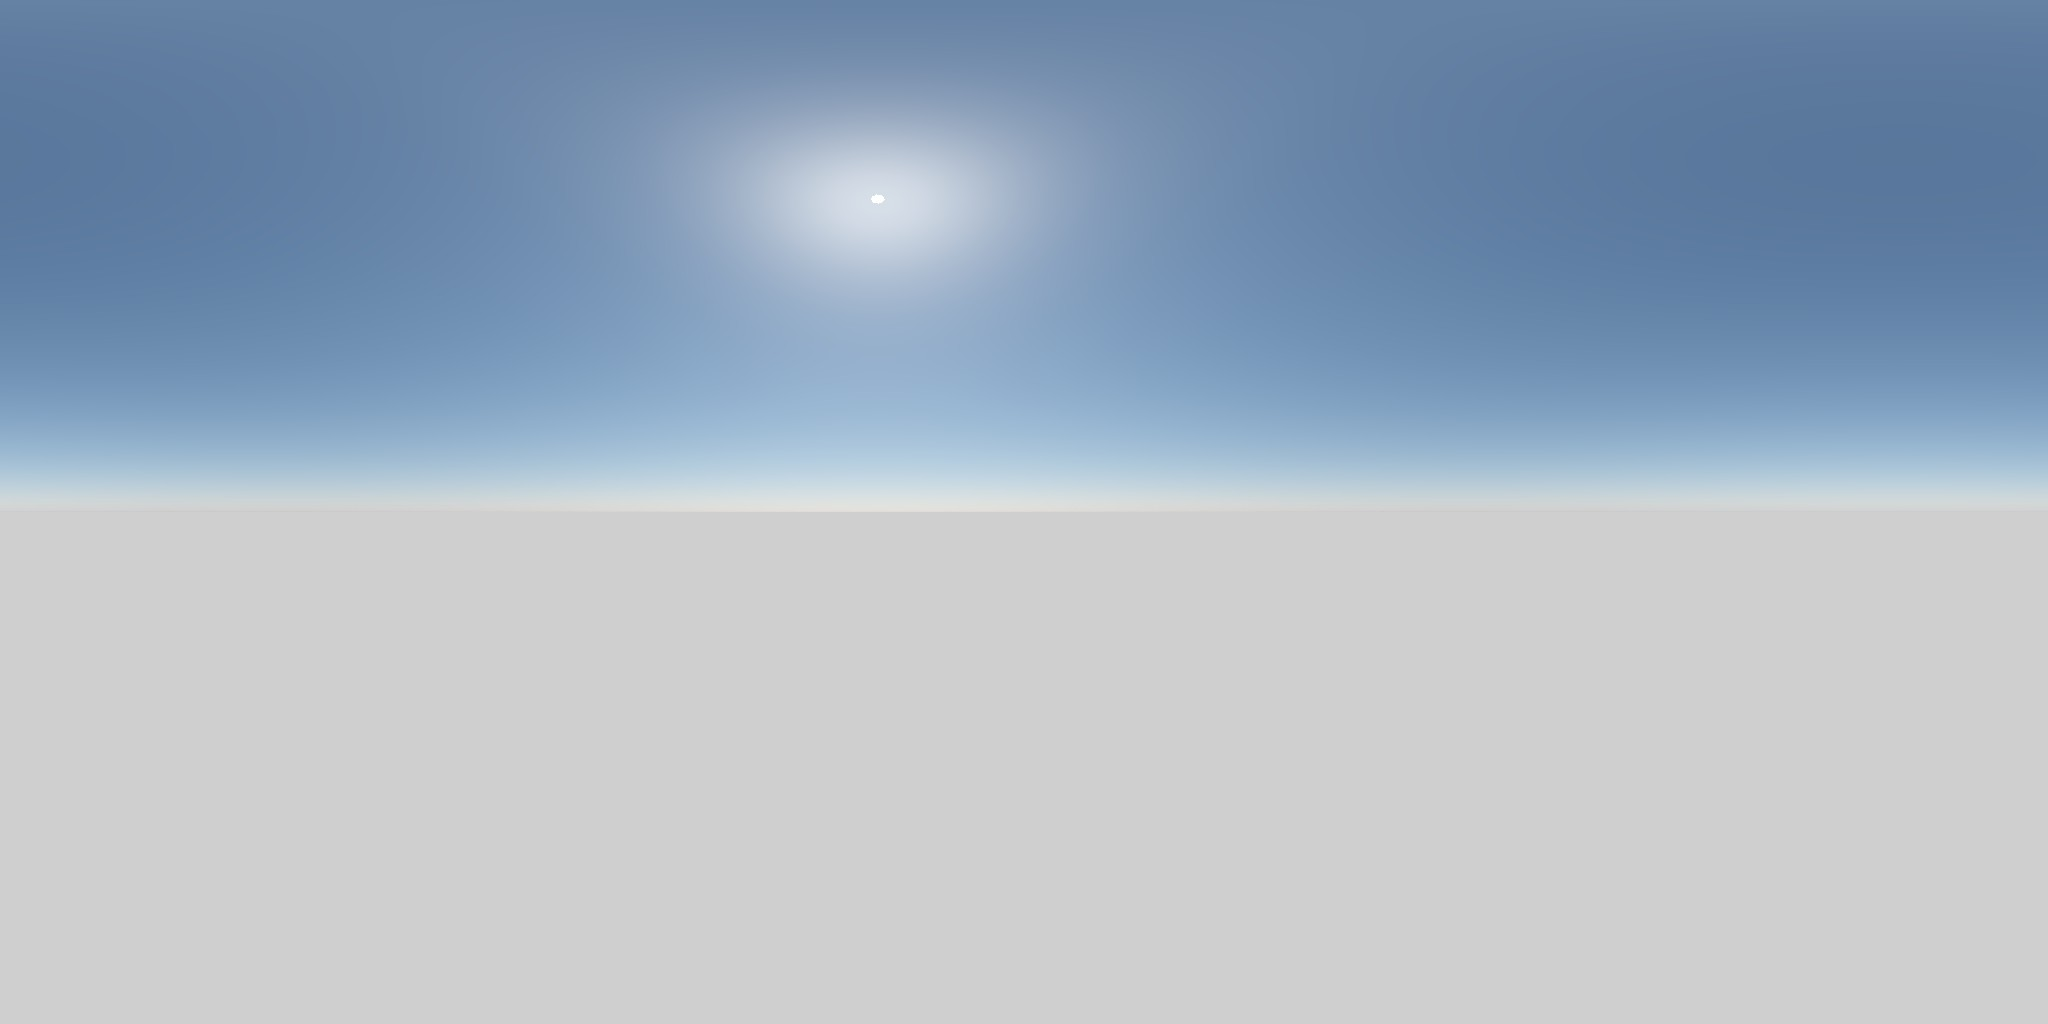
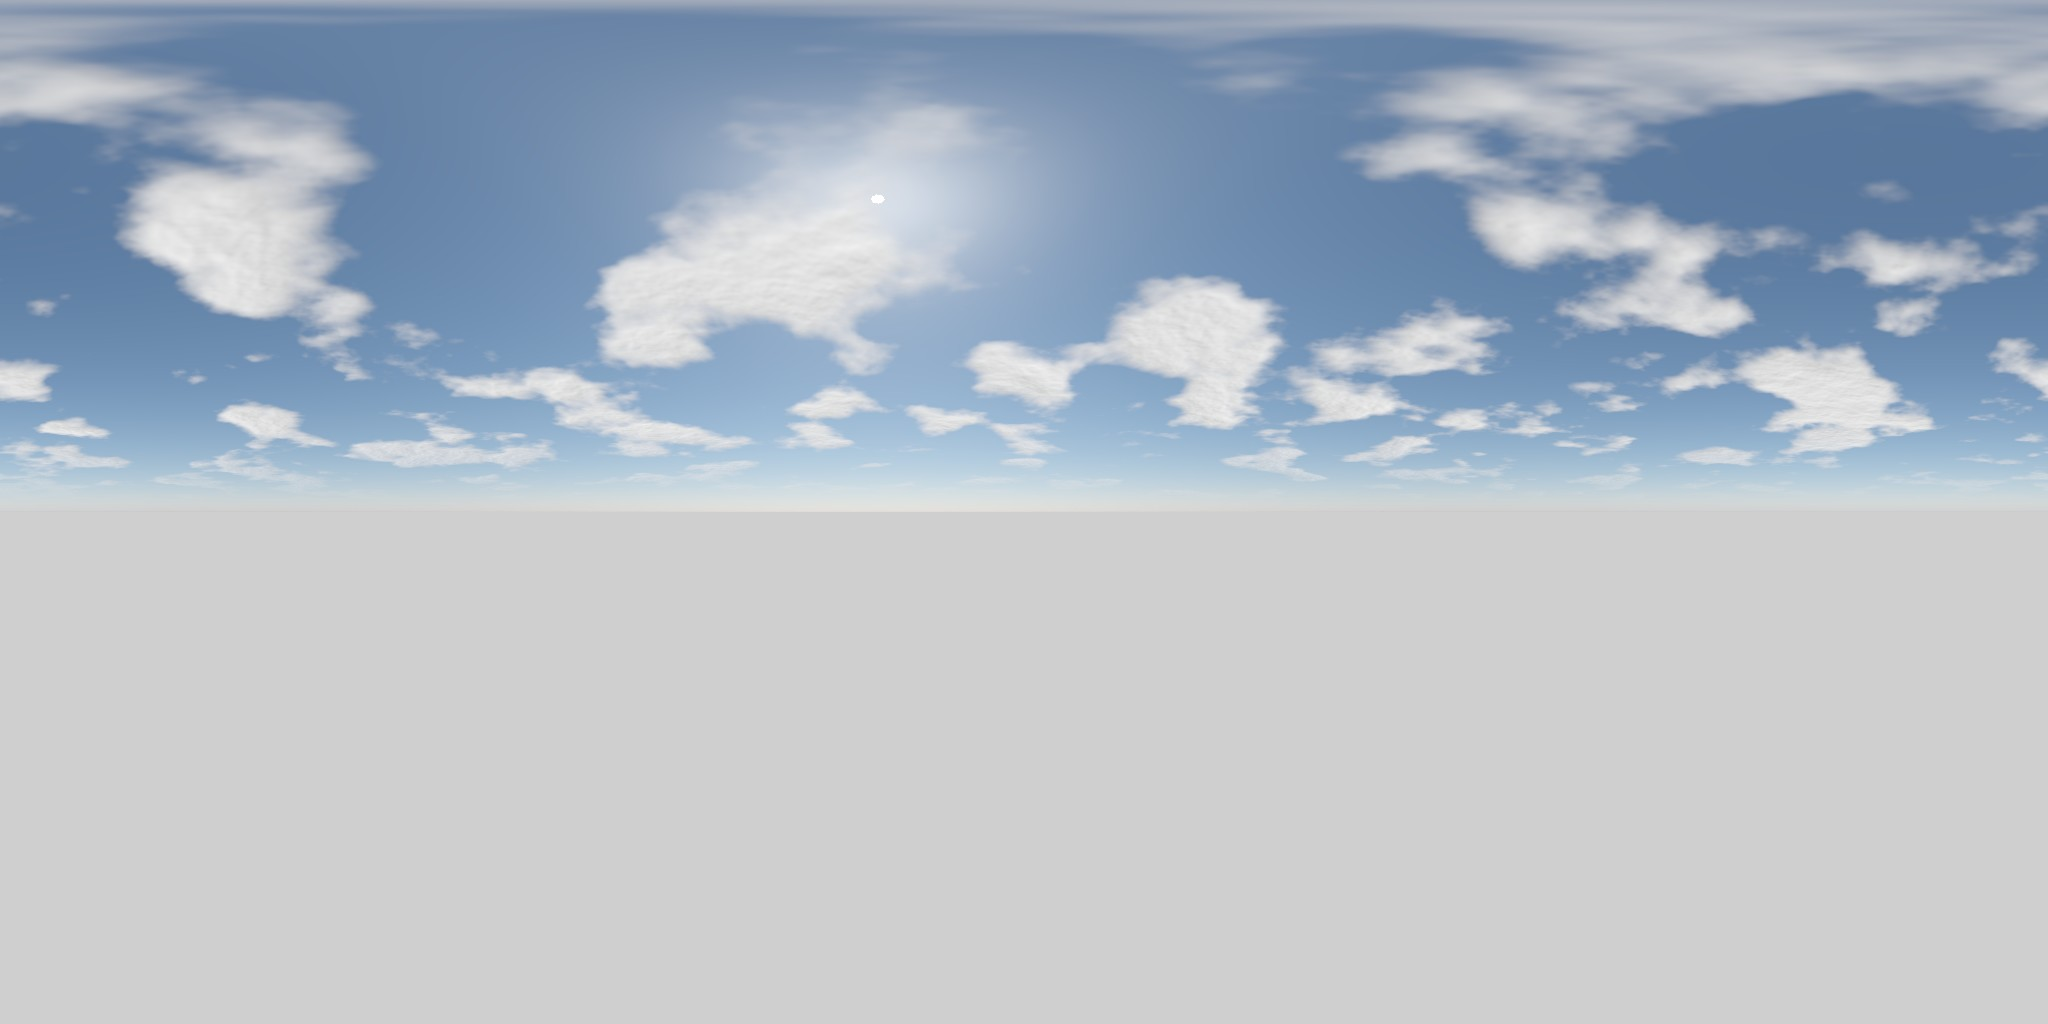
Ingresso piu' fluido: geometrie caricate prima di partire, ombra congelata e specchio sfumato durante il percorso, dt limitato, scorrimento con molla; adattamento dell'esposizione; nuvole nel cielo

diff --git a/web/sala.js b/web/sala.js
@@ -491,9 +491,23 @@ export async function avviaSala(host, opz = {}) {
       if (si === salaVisibile) return;
       salaVisibile = si;
       gltf.scene.visible = si;
-      if (specchio) specchio.visible = si;
       portaSala.visible = !si;
+      if (si) renderer.shadowMap.needsUpdate = true;        // la mappa d'ombra si rifa' una volta quando la sala ricompare
     };
+    // la sala e' ferma durante l'ingresso: mappa d'ombra congelata (a ogni fotogramma costava tutta la sala) e specchio
+    // acceso solo nelle ultime decine di metri, con dissolvenza (si vede solo dal pavimento della sala)
+    const aggiornaCostose = (p) => {
+      const dentro = p >= 1;
+      renderer.shadowMap.autoUpdate = dentro;
+      if (dentro) renderer.shadowMap.needsUpdate = true;
+      if (specchio) {
+        const fs = dentro ? 1 : liscio(0.86, 0.95, p);
+        specchio.visible = fs > 0.001;
+        if (specchio.material.uniforms && specchio.material.uniforms.forza) specchio.material.uniforms.forza.value = 0.20 * fs;
+      }
+    };
+    const ESP0 = renderer.toneMappingExposure, ADATT_FUORI = 0.88;
+    const adatt = { m: ADATT_FUORI, t: performance.now() };
     perc = {
       esiste: true, attivo: false, p: 1, anim: null, lunghezza: lung,
       applica() {
@@ -506,6 +520,13 @@ export async function avviaSala(host, opz = {}) {
         tmp.x += env * 0.006 * Math.sin(Math.PI * d);
         cam.position.copy(tmp);
         cam.lookAt(tmpT);
+        // adattamento dell'occhio: nello stadio al sole l'esposizione e' un po' piu' bassa; entrando nel tunnel risale piano
+        // (si parte "abbagliati" e il tunnel si apre), uscendo dal tunnel (scorrimento all'indietro) si richiude in fretta
+        const adesso = performance.now(), dtA = Math.min(0.1, (adesso - adatt.t) / 1000);
+        adatt.t = adesso;
+        const dentro = tmp.z - 5.05 < 21.5;
+        adatt.m += ((dentro ? 1.0 : ADATT_FUORI) - adatt.m) * (1 - Math.exp(-dtA / (dentro ? 1.2 : 0.4)));
+        renderer.toneMappingExposure = ESP0 * (RIDUCI() ? 1 : adatt.m);
         const k = t * (fovs.length - 1), i = Math.min(fovs.length - 2, Math.floor(k));
         const f = fovEff({ fov: fovs[i] + (fovs[i + 1] - fovs[i]) * (k - i) });
         if (cam.fov !== f) { cam.fov = f; cam.updateProjectionMatrix(); }
@@ -514,7 +535,9 @@ export async function avviaSala(host, opz = {}) {
         p = Math.min(1, Math.max(0, p));
         this.p = p;
         mostraSala(p >= SOGLIA_SALA);
+        aggiornaCostose(p);
         if (p >= 1) {
+          adatt.m = 1; renderer.toneMappingExposure = ESP0;
           if (this.attivo) {
             this.attivo = false;
             host.classList.remove('intro', 'corre');
@@ -558,11 +581,18 @@ export async function avviaSala(host, opz = {}) {
         await this.avvia({ durata: opz.durataPercorso });
       },
       collegaScorrimento(el = host.parentElement) {
+        let tS = 0;
         const f = () => {
           const r = el.getBoundingClientRect();
           const tot = r.height - window.innerHeight;
+          const tgt = Math.min(1, Math.max(0, tot > 0 ? -r.top / tot : 1));
+          const adesso = performance.now(), dtS = Math.min(0.1, (adesso - tS) / 1000);
+          const primo = tS === 0;
+          tS = adesso;
+          // la rotella da' scatti: la camera insegue lo scorrimento con una molla morbida (0,12 s) invece di saltare
+          const nuovo = primo || Math.abs(tgt - this.p) < 1e-4 ? tgt : this.p + (tgt - this.p) * (1 - Math.exp(-dtS / 0.12));
           this.ferma();
-          this.progresso(tot > 0 ? -r.top / tot : 1);
+          this.progresso(nuovo);
         };
         window.addEventListener('scroll', f, { passive: true });
         f();
@@ -795,7 +825,7 @@ export async function avviaSala(host, opz = {}) {
     ora = now;
     if (perc && perc._f) perc._f();
     if (perc && perc.attivo) {
-      perc.passo(dt);
+      perc.passo(Math.min(dt, 0.04));   // un fotogramma lento diventa una pausa breve, non un salto in avanti
     } else {
       passoTween(now);
       aggiornaHover();
@@ -831,6 +861,14 @@ export async function avviaSala(host, opz = {}) {
       for (const k of ['map', 'emissiveMap', 'roughnessMap', 'metalnessMap', 'normalMap', 'aoMap']) if (m[k] && m[k].isTexture) renderer.initTexture(m[k]);
     }
   });
+  // upload di TUTTE le geometrie e delle ombre prima di muovere la camera: senza, ogni mesh fuori campo si carica sulla GPU
+  // la prima volta che entra nell'inquadratura (scatti durante l'ingresso)
+  {
+    const cull = [];
+    scena.traverse((o) => { if (o.isMesh && o.frustumCulled) { cull.push(o); o.frustumCulled = false; } });
+    try { renderer.render(scena, cam); } catch (e) { /* il riscaldamento non deve mai bloccare l'avvio */ }
+    for (const o of cull) o.frustumCulled = true;
+  }
   applica(vista);
   ridim();
   raf = requestAnimationFrame(giro);

diff --git a/scripts/cielo.py b/scripts/cielo.py
@@ -18,6 +18,46 @@ sys.path.insert(0, os.path.dirname(os.path.abspath(__file__)))
 import tunnel  # noqa: E402
 
 
+def _fbm(px, py, rng_seed=7):
+    """Rumore frattale (valore, 6 ottave) su coordinate piane; reticolo 64x64 ripetuto."""
+    g = np.random.default_rng(rng_seed).random((64, 64))
+    tot = np.zeros_like(px)
+    amp, fr, norm = 1.0, 1.0, 0.0
+    for _ in range(6):
+        x, y = px * fr, py * fr
+        x0, y0 = np.floor(x).astype(int), np.floor(y).astype(int)
+        fx, fy = x - x0, y - y0
+        fx, fy = fx * fx * (3 - 2 * fx), fy * fy * (3 - 2 * fy)
+        a00, a10 = g[y0 % 64, x0 % 64], g[y0 % 64, (x0 + 1) % 64]
+        a01, a11 = g[(y0 + 1) % 64, x0 % 64], g[(y0 + 1) % 64, (x0 + 1) % 64]
+        tot += amp * (a00 * (1 - fx) * (1 - fy) + a10 * fx * (1 - fy) + a01 * (1 - fx) * fy + a11 * fx * fy)
+        norm += amp
+        amp *= 0.5
+        fr *= 2.07
+    return tot / norm
+
+
+def _nuvole(a, W, H):
+    """Cumuli sparsi sulla cupola: densita' da rumore frattale proiettato su un piano; piu' scuri dal lato opposto al sole."""
+    col, riga = np.meshgrid((np.arange(W) + 0.5) / W, (np.arange(H) + 0.5) / H)
+    lon = (col - 0.5) * 2 * math.pi
+    lat = (0.5 - riga) * math.pi
+    dx, dy, dz = np.cos(lat) * np.cos(lon), np.sin(lat), np.cos(lat) * np.sin(lon)
+    up = np.clip(dy, 0.0, 1.0)
+    px = dx / (dy + 0.10) * 1.6 + 13.0
+    py = dz / (dy + 0.10) * 1.6 + 7.0
+    d0 = _fbm(px, py)
+    sx, sz = tunnel.SOLE[0], tunnel.SOLE[1]
+    d1 = _fbm(px + sx * 0.06, py + sz * 0.06)
+    dens = np.clip((d0 - 0.52) / 0.16, 0.0, 1.0)
+    dens = dens * dens * (3 - 2 * dens)
+    dens *= np.clip((up - 0.03) / 0.22, 0.0, 1.0)                 # sfuma verso l'orizzonte
+    luce = np.clip(0.80 + (d1 - d0) * 5.0, 0.55, 1.1)              # verso il sole piu' chiaro
+    nuv = (1.35 * luce)[..., None] * np.array([1.0, 0.99, 0.97])[None, None, :]
+    cop = (dens * 0.9)[..., None]
+    return a * (1 - cop) + nuv * cop
+
+
 def main():
     argv = sys.argv[sys.argv.index("--") + 1:] if "--" in sys.argv else []
     out = os.path.abspath(argv[0]) if argv else os.path.abspath("out_tunnel")
@@ -90,6 +130,7 @@ def main():
     med = float(np.median(cielo.mean(axis=2)))
     print("CIELO_MEDIANA_PRIMA", med)
     a = a * (0.25 / max(med, 1e-6))
+    a = _nuvole(a, W, H)
     a = np.clip(a / (1.0 + a) * 1.5, 0, 1)            # spalla morbida: l'orizzonte resta velato, non bianco
     a[h:] = a[h - 6:h - 3].mean(axis=(0, 1))[None, None, :] * 0.92
     # sRGB (view_transform Standard: l'EXR e' lineare)

diff --git a/STATO.md b/STATO.md
@@ -75,3 +75,8 @@ Ancora diverso dalle foto:
 - **Dettagli**: dischetti e archi delle aree, bandierine d'angolo, panchine con tettoia alle linee laterali, muro di base e facciata a pannelli con zoccolo e filetto, LED lineari alle pareti del tunnel, scritta SPOGLIATOIO sopra la porta in fondo.
 - Non fatto: reti delle porte (servirebbe PNG con alpha, il glb usa JPEG), spettatori, fps reali.
 
+### Quinto giro (18/11/2026): fluidita' dell'ingresso, nuvole
+- **Fluidita'** (`sala.js`): (1) riscaldamento con un render a frustum spento: tutte le geometrie (sala, stadio) sono sulla GPU prima di partire, niente caricamenti quando una mesh entra in campo; (2) mappa d'ombra congelata durante l'ingresso (ricalcolata una volta quando la sala ricompare e all'arrivo); (3) specchio acceso solo da p=0,86 con dissolvenza (prima ogni frame disegnava la scena due volte); (4) dt dell'animazione limitato a 40 ms: un fotogramma lento diventa una pausa, non un salto in avanti; (5) scorrimento con molla morbida (0,12 s) invece di seguire gli scatti della rotella. Simulato l'ingresso intero a 60 fps: velocita' 2,6 m/s costante, rampe dolci, arrivo senza salti. Non misurato su GPU vera.
+- **Adattamento dell'occhio**: esposizione 0,88 x nello stadio, sale a 1,0 entrando nel tunnel (costante di tempo 1,2 s), torna a 0,9 nella sala.
+- **Cielo**: cumuli procedurali (rumore frattale proiettato, ombreggiati rispetto al sole) in `cielo.py`.
+
